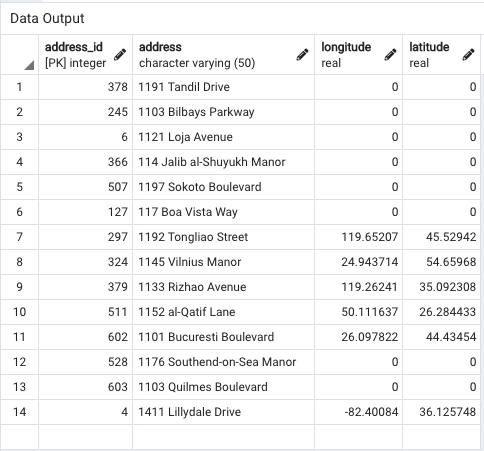
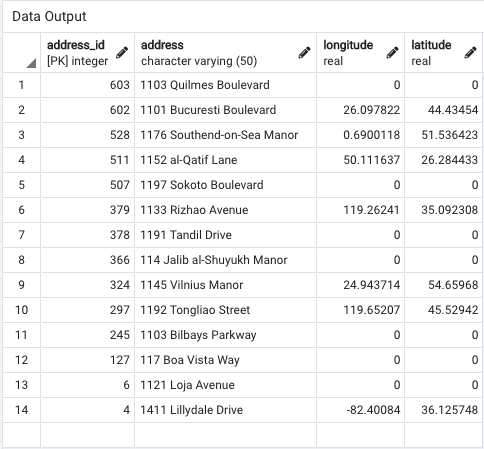
week09

diff --git a/week09/script.py b/week09/script.py
@@ -33,17 +33,19 @@ def update_coords(addresses: list):
                                 database='dvdrental',
                                 user='postgres',
                                 password='proof')
-        # conn.autocommit = True
+        conn.autocommit = True
         cur = conn.cursor()
         for address in addresses:
             location = geolocator.geocode(address[1])
             if location is not None:
                 cur.execute('UPDATE address SET longitude=%s, latitude=%s WHERE address_id=%s;', (location.longitude, location.latitude, address[0]))
-                conn.commit()
+                # conn.commit()
                 print(location.latitude, location.longitude)
             else:
-                cur.execute('UPDATE address SET longitude=%s, latitude=%s;', (0.0, 0.0))
-                print((0, 0)) 
+                cur.execute('UPDATE address SET longitude=%s, latitude=%s WHERE address_id=%s;', (0.0, 0.0, address[0]))
+                print((0, 0))
+            # conn.commit()
+        cur.close()
     except (Exception, psycopg2.DatabaseError) as error:
         print(error)
     finally:
